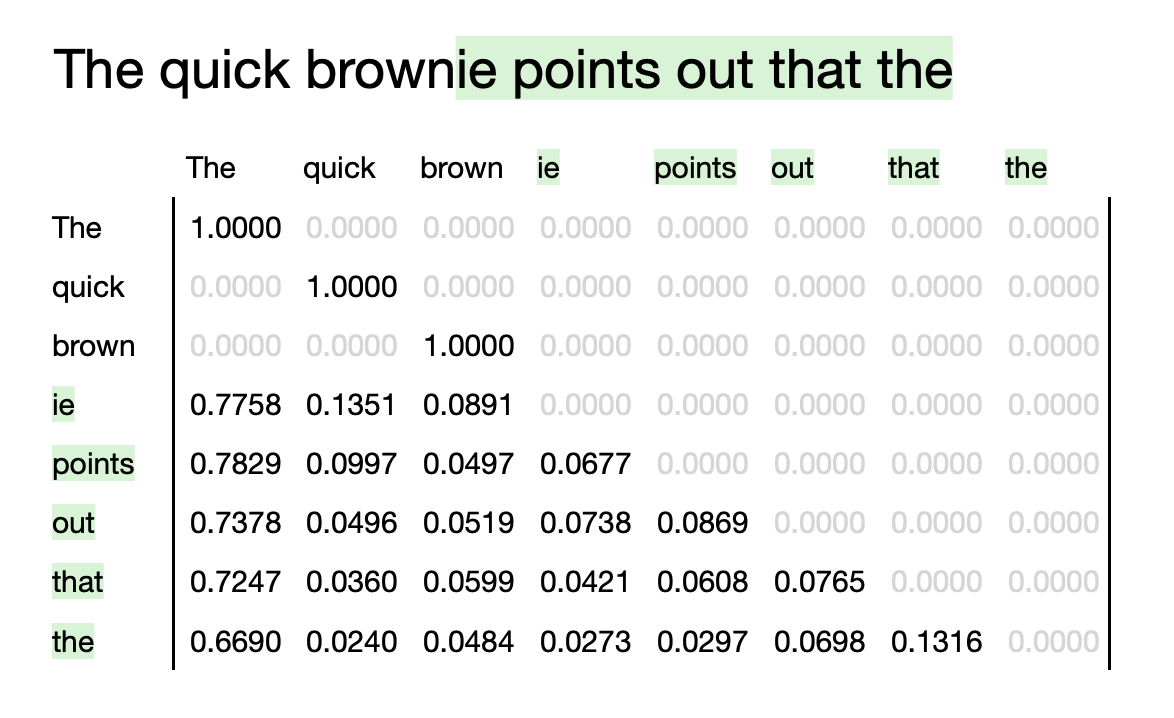
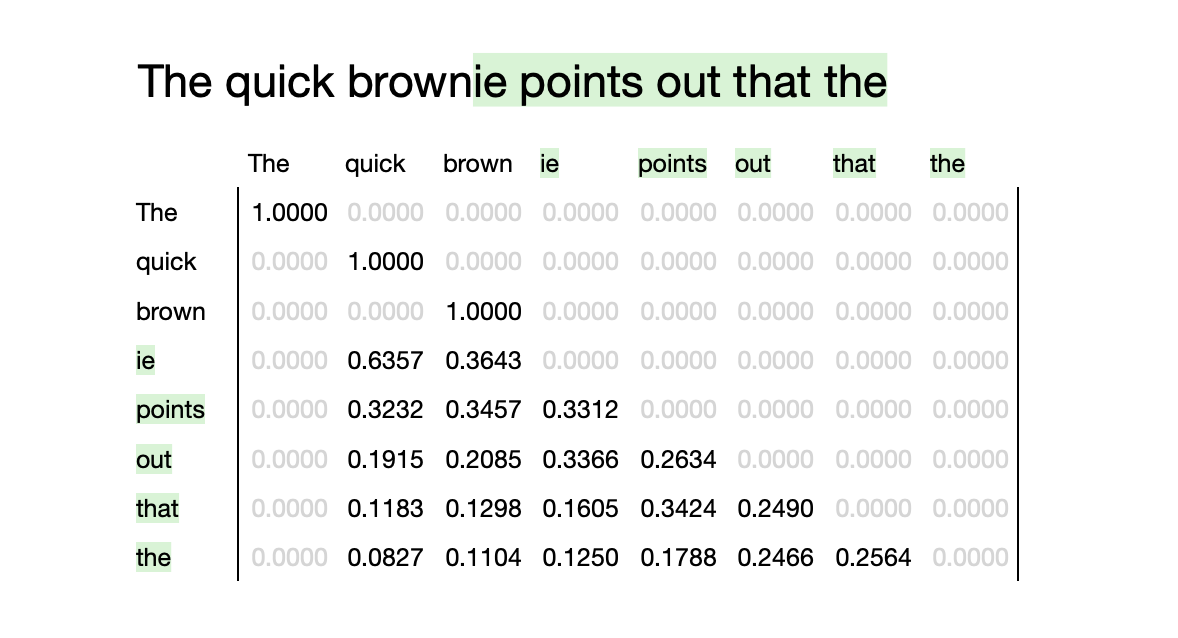
refine attention aggregation

diff --git a/attention/attention.py b/attention/attention.py
@@ -4,11 +4,19 @@ import torch
 
 def aggregate_attention(attn):
     '''Extract attention vector mapping onto preceding token'''
-    last_layer_attns = attn[-1].squeeze(0)
-    last_layer_attns_per_head = last_layer_attns.mean(dim=0)
-    return torch.concat(
-        (last_layer_attns_per_head[-1], torch.tensor([0.]))
-    )
+    avged = []
+    for layer in attn:
+        layer_attns = layer.squeeze(0)
+        attns_per_head = layer_attns.mean(dim=0)
+        # We zero the first entry because it's what's called
+        # null attention (https://aclanthology.org/W19-4808.pdf)
+        vec = torch.concat((
+            torch.tensor([0.]),
+            attns_per_head[-1][1:],
+            torch.tensor([0.]),
+        ))
+        avged.append(vec / vec.sum())
+    return torch.stack(avged).mean(dim=0)
 
 def heterogenous_stack(vecs):
     '''Pad vectors with zeros then stack'''
